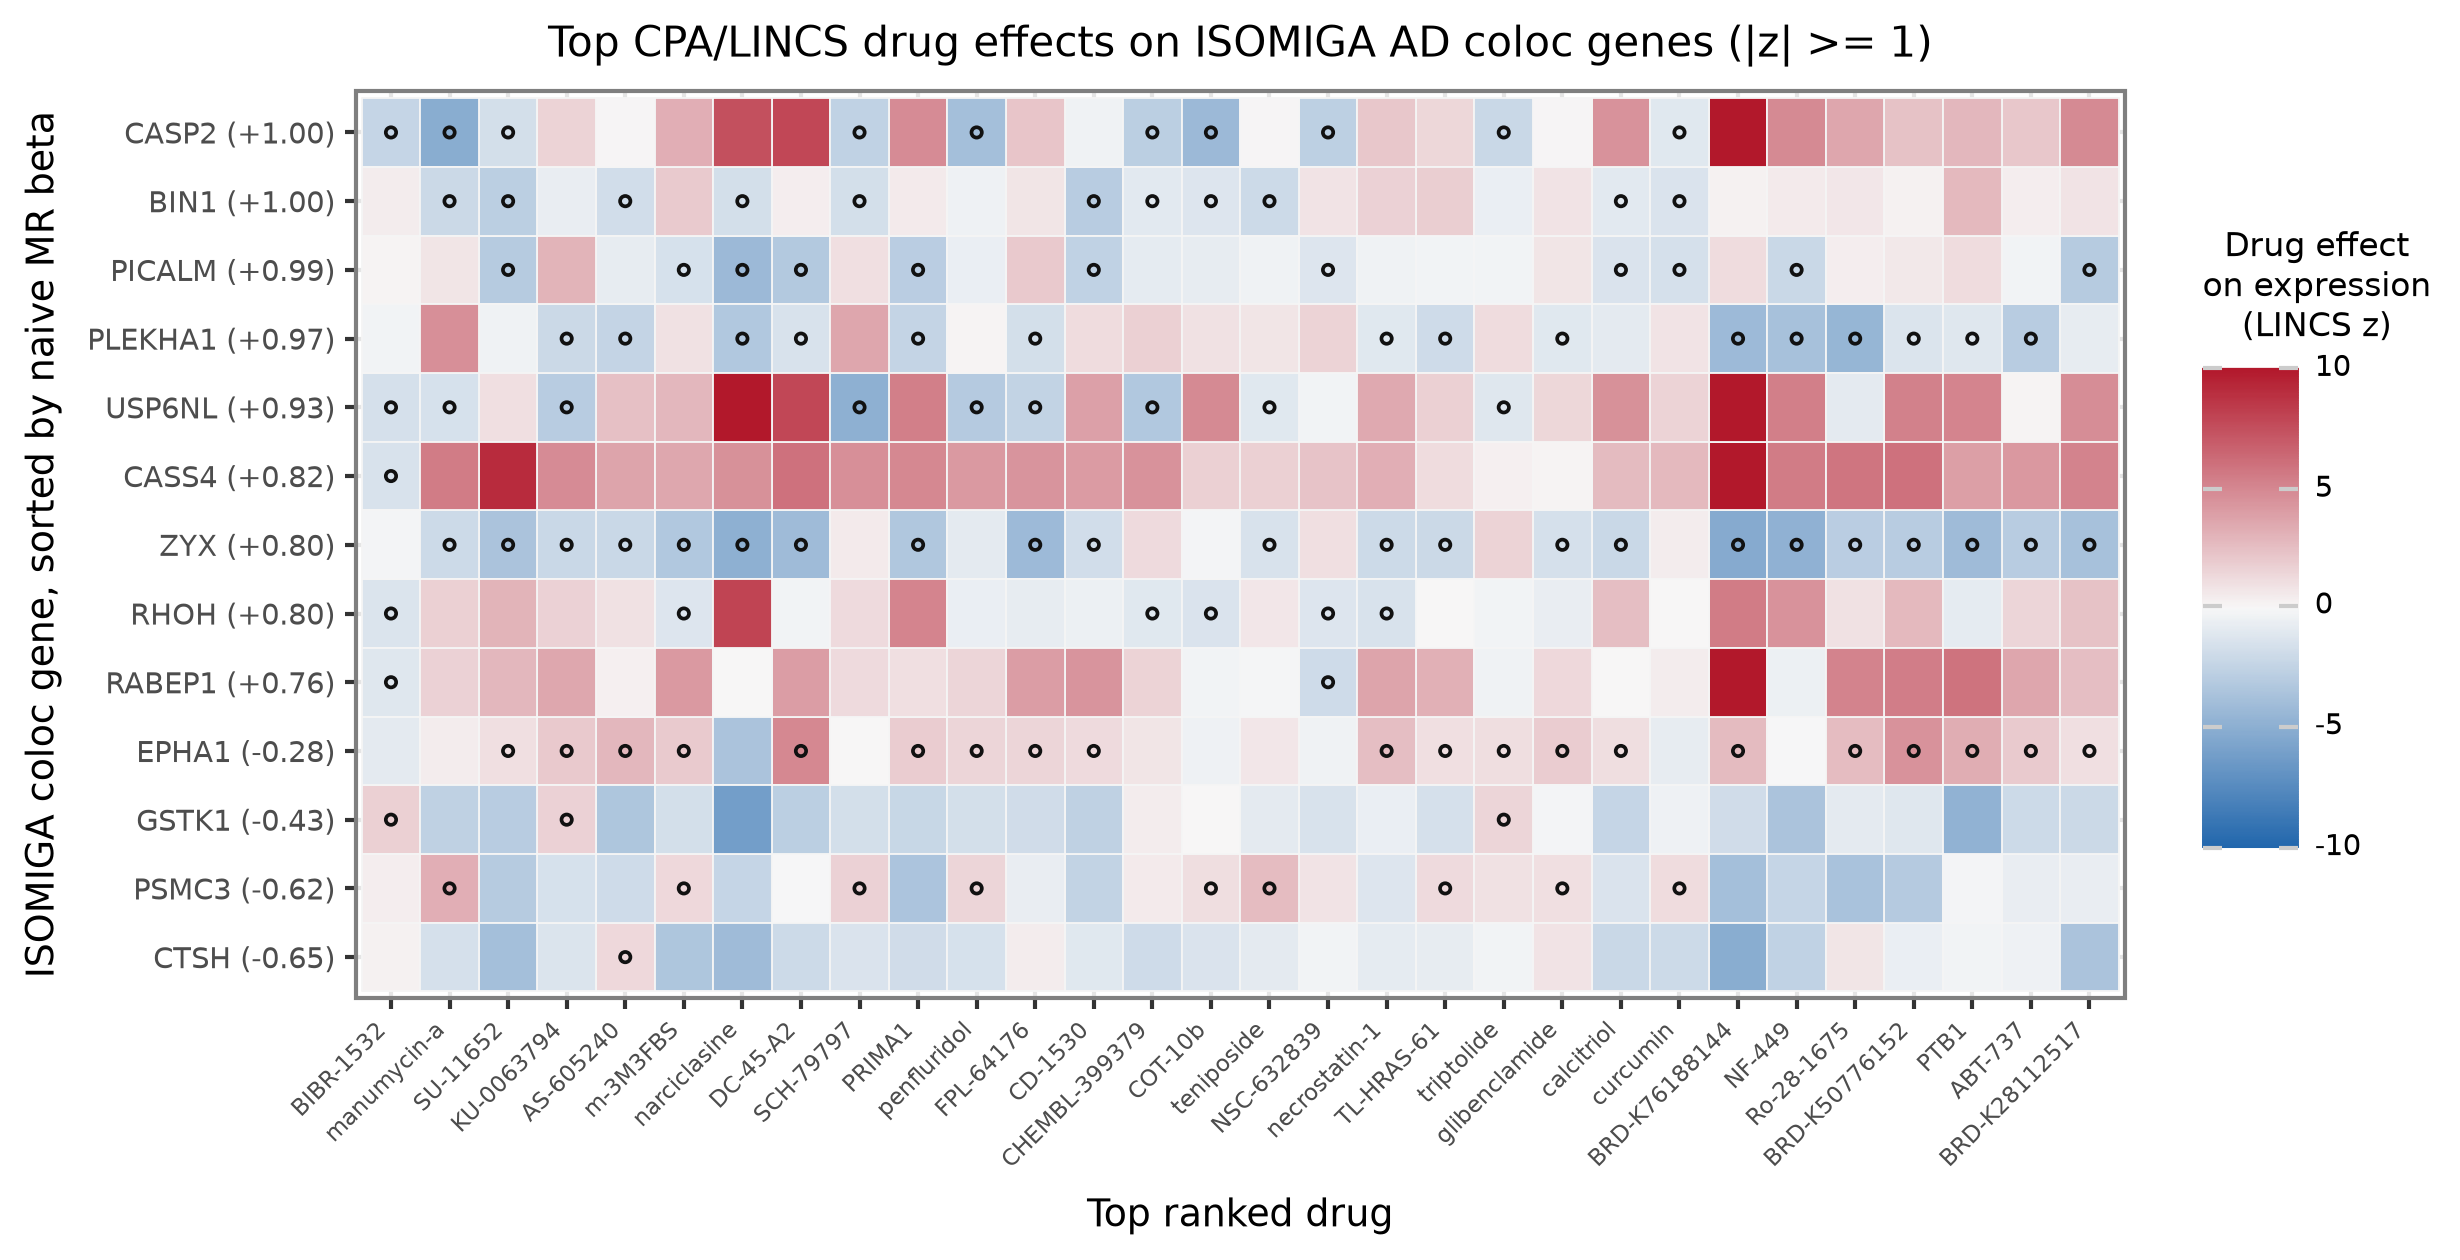
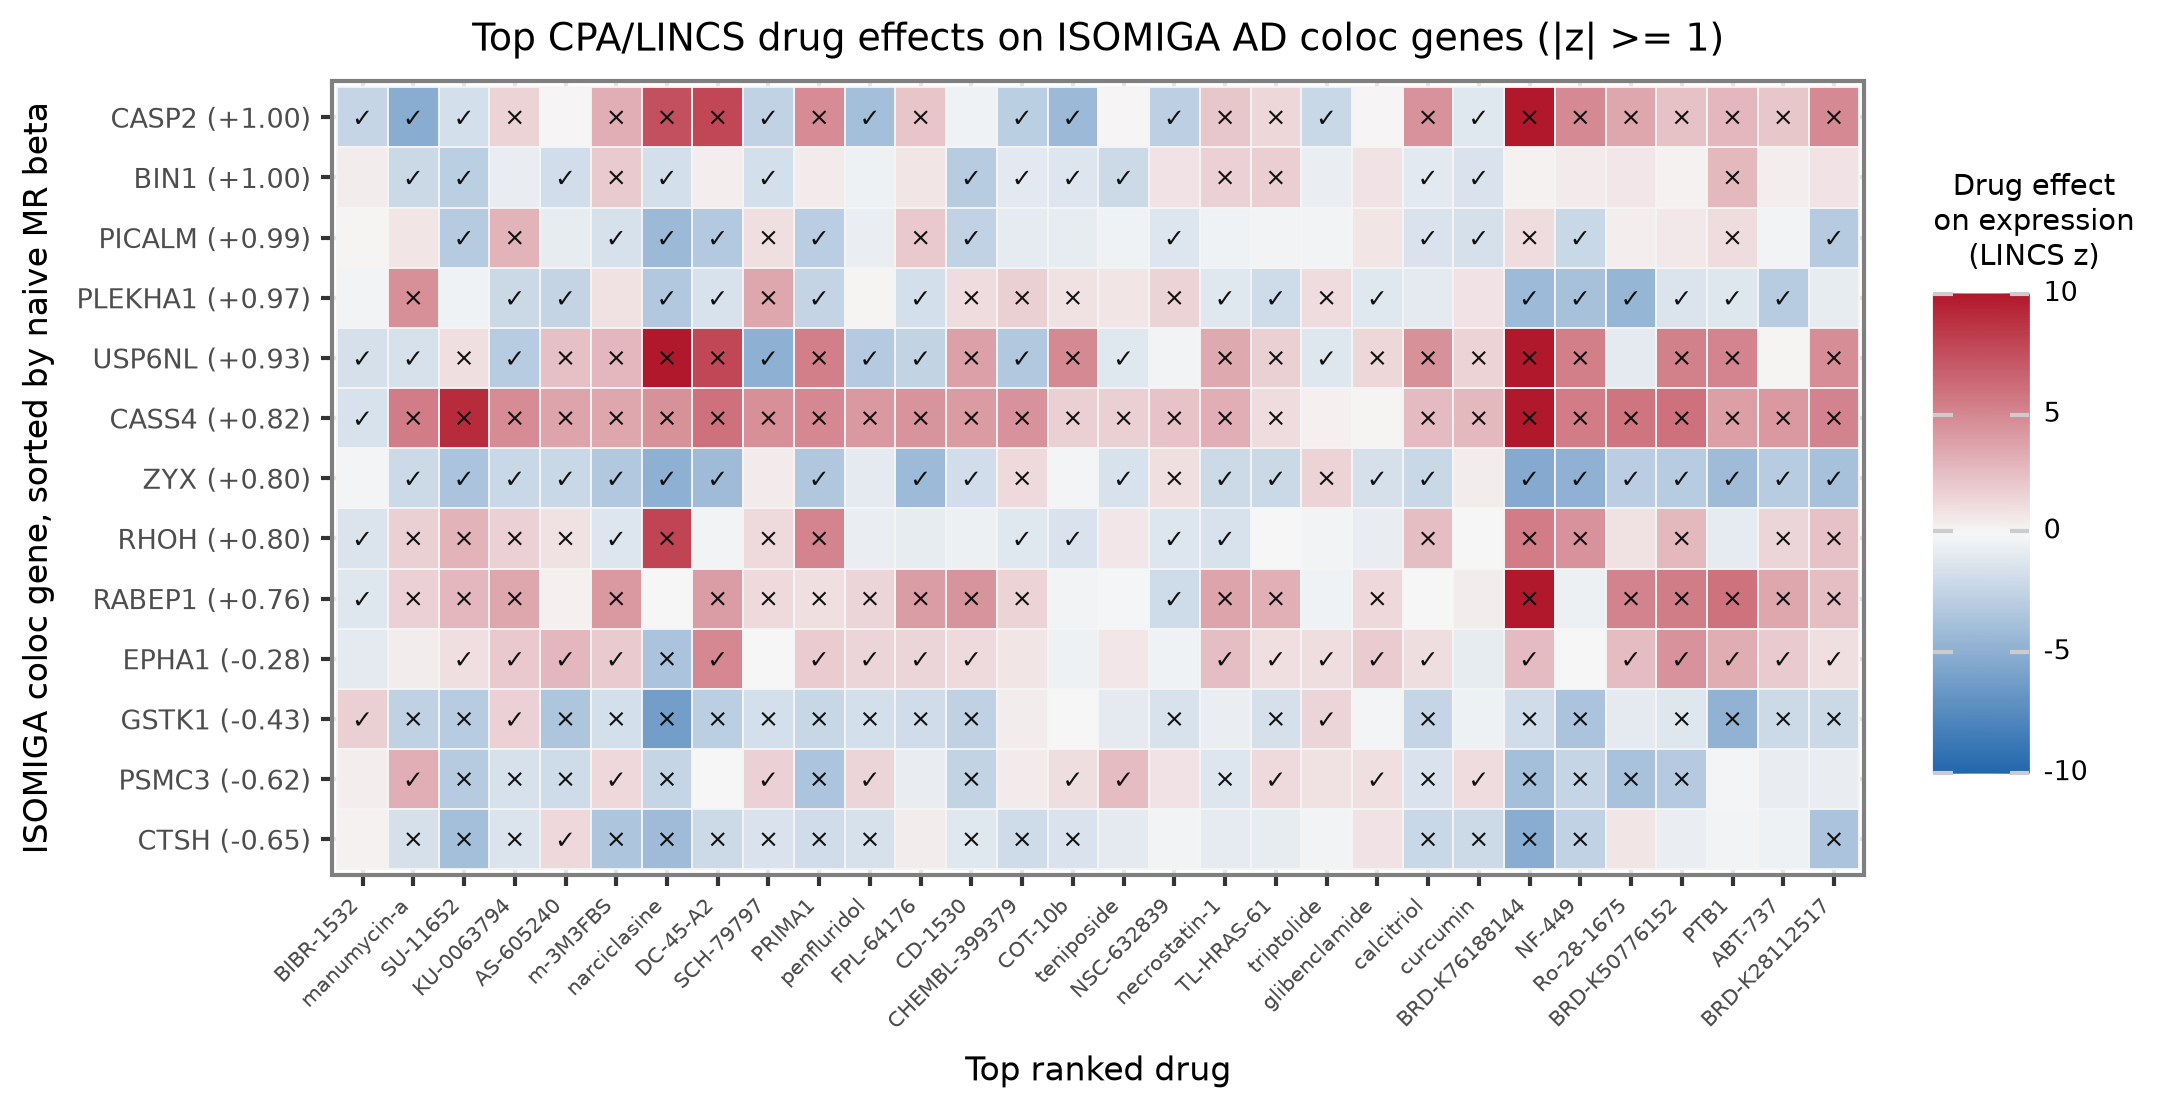
Use threshold markers in CPA heatmap

diff --git a/scripts/plot_cpa_coloc_gene_drug_heatmap.py b/scripts/plot_cpa_coloc_gene_drug_heatmap.py
@@ -11,7 +11,7 @@ import pandas as pd
 from plotnine import (
     aes,
     element_text,
-    geom_point,
+    geom_text,
     geom_tile,
     ggplot,
     labs,
@@ -80,10 +80,12 @@ def main() -> None:
     )
     plot_df["protective_push_z"] = plot_df["mean_z"] * plot_df["protective_expression_direction"]
     if args.min_abs_z > 0:
-        protective_df = plot_df[plot_df["protective_push_z"].ge(args.min_abs_z)].copy()
+        marker_df = plot_df[plot_df["protective_push_z"].abs().ge(args.min_abs_z)].copy()
+        marker_df["marker"] = np.where(marker_df["protective_push_z"].gt(0), "✓", "×")
         title_suffix = f" (|z| >= {args.min_abs_z:g})"
     else:
-        protective_df = plot_df[plot_df["protective_push_z"].gt(0)].copy()
+        marker_df = plot_df[plot_df["protective_push_z"].gt(0)].copy()
+        marker_df["marker"] = "•"
         title_suffix = ""
 
     gene_meta = (
@@ -98,9 +100,9 @@ def main() -> None:
     plot_df["gene_label"] = plot_df["gene_name"].map(label_map)
     plot_df["gene_label"] = pd.Categorical(plot_df["gene_label"], categories=gene_order, ordered=True)
     plot_df["drug_label"] = pd.Categorical(plot_df["drug_label"], categories=drug_order, ordered=True)
-    protective_df["gene_label"] = protective_df["gene_name"].map(label_map)
-    protective_df["gene_label"] = pd.Categorical(protective_df["gene_label"], categories=gene_order, ordered=True)
-    protective_df["drug_label"] = pd.Categorical(protective_df["drug_label"], categories=drug_order, ordered=True)
+    marker_df["gene_label"] = marker_df["gene_name"].map(label_map)
+    marker_df["gene_label"] = pd.Categorical(marker_df["gene_label"], categories=gene_order, ordered=True)
+    marker_df["drug_label"] = pd.Categorical(marker_df["drug_label"], categories=drug_order, ordered=True)
 
     out_data = Path(args.plot_data)
     out_data.parent.mkdir(parents=True, exist_ok=True)
@@ -111,7 +113,7 @@ def main() -> None:
     plot = (
         ggplot(plot_df, aes("drug_label", "gene_label", fill="mean_z"))
         + geom_tile(color="#f5f5f5", size=0.25)
-        + geom_point(protective_df, size=0.9, color="#111111")
+        + geom_text(marker_df, aes(label="marker"), size=6, color="#111111")
         + scale_fill_gradient2(low="#2166ac", mid="#f7f7f7", high="#b2182b", midpoint=0, limits=(-max_abs, max_abs))
         + labs(
             x="Top ranked drug",
@@ -121,13 +123,13 @@ def main() -> None:
         )
         + theme_bw()
         + theme(
-            figure_size=(8.2, 4.2),
-            axis_title=element_text(size=9),
-            axis_text_x=element_text(rotation=45, ha="right", size=5.5),
-            axis_text_y=element_text(size=7),
-            legend_title=element_text(size=8),
-            legend_text=element_text(size=7),
-            plot_title=element_text(size=10),
+            figure_size=(7.2, 3.7),
+            axis_title=element_text(size=8),
+            axis_text_x=element_text(rotation=45, ha="right", size=5),
+            axis_text_y=element_text(size=6.5),
+            legend_title=element_text(size=7),
+            legend_text=element_text(size=6.5),
+            plot_title=element_text(size=9),
         )
     )
 

diff --git a/LABNOTEBOOK.md b/LABNOTEBOOK.md
@@ -57,7 +57,7 @@ Ranking after CPA:
 - `docs/cpa_nosmiles_top30_biology_review.tsv` reviews the top 30 primary ranked drugs. The current top 30 are all observed THP1 profiles. The most biologically interpretable hits are sirolimus, NFkB-activation-inhibitor-II, triptolide, CI-976, lovastatin, nifedipine, NSC-23766, and selected kinase/prenylation pathway tools; several high-count hits lack MOA annotations and should be treated as signature leads.
 - `scripts/plot_cpa_coloc_gene_drug_heatmap.py` generates `results/figures/cpa_nosmiles_top30_coloc_gene_drug_heatmap.pdf`, showing top ranked drugs across ISOMIGA coloc genes sorted by naive MR beta. Tile fill is THP1 expression z-score and black dots mark concordance with the protective expression direction.
 - `scripts/rank_cpa_drugs_by_isomiga.py --min-abs-z 1` generated the `isomiga_cpa_nosmiles_top2000_abs1_protective_count` tables. This ranking sorts first by significant protective genes, where a significant gene has `abs(mean_z) >= 1` and the protective sign. The top 30 remain observed THP1 drugs; predicted-only CPA target-gene effects are all below `abs(mean_z) = 1`, so they have zero significant protective genes under this threshold.
-- `results/figures/cpa_nosmiles_top30_abs1_coloc_gene_drug_heatmap.pdf` shows the thresholded top 30. Dots indicate protective effects passing `abs(mean_z) >= 1`; tiles retain the continuous expression z-score.
+- `results/figures/cpa_nosmiles_top30_abs1_coloc_gene_drug_heatmap.pdf` shows the thresholded top 30. Ticks indicate protective effects passing `abs(mean_z) >= 1`, crosses indicate thresholded opposing effects, and tiles retain the continuous expression z-score.
 
 Implementation note:
 

diff --git a/README.md b/README.md
@@ -114,7 +114,7 @@ Current top-drug tables:
 - `docs/cpa_nosmiles_top30_biology_review.tsv`: concise biology review for the top 30 primary ranked drugs.
 - `results/figures/cpa_nosmiles_top30_coloc_gene_drug_heatmap.pdf`: heatmap of top ranked drugs by coloc genes. Rows are sorted by naive MR `mr_ivw_beta`; tile color is the drug effect on expression (`mean_z`), and black dots mark gene-drug effects in the genetically protective direction.
 - `data/processed/cpa/isomiga_cpa_nosmiles_top2000_abs1_protective_count_combined_drug_scores.tsv`: sensitivity ranking requiring `abs(mean_z) >= 1` for significant protective/opposing gene counts.
-- `results/figures/cpa_nosmiles_top30_abs1_coloc_gene_drug_heatmap.pdf`: heatmap from the `abs(mean_z) >= 1` ranking. Tiles still show continuous expression z-scores; dots mark protective effects passing the absolute z-score threshold.
+- `results/figures/cpa_nosmiles_top30_abs1_coloc_gene_drug_heatmap.pdf`: heatmap from the `abs(mean_z) >= 1` ranking. Tiles still show continuous expression z-scores; ticks mark protective effects passing the absolute z-score threshold, and crosses mark thresholded opposing effects.
 
 The current primary top 30 are all observed THP1 profiles, because observed responses are preferred when both observed and CPA-imputed responses are available. The top biology-aware leads from that table are not necessarily the highest-ranked rows. The most interpretable hits include sirolimus (mTOR/autophagy-lysosome biology), NFkB-activation-inhibitor-II and triptolide (myeloid inflammatory transcription/NF-kB, with toxicity caveats), CI-976 and lovastatin (lipid/cholesterol biology), nifedipine (calcium/vascular and immune signaling), and NSC-23766/FTI-276/kinase inhibitors as pathway tools. Several high-ranked rows have missing MOA or broad stress/cell-cycle annotations and should be treated as signature leads until their compound identity and target biology are reviewed.
 